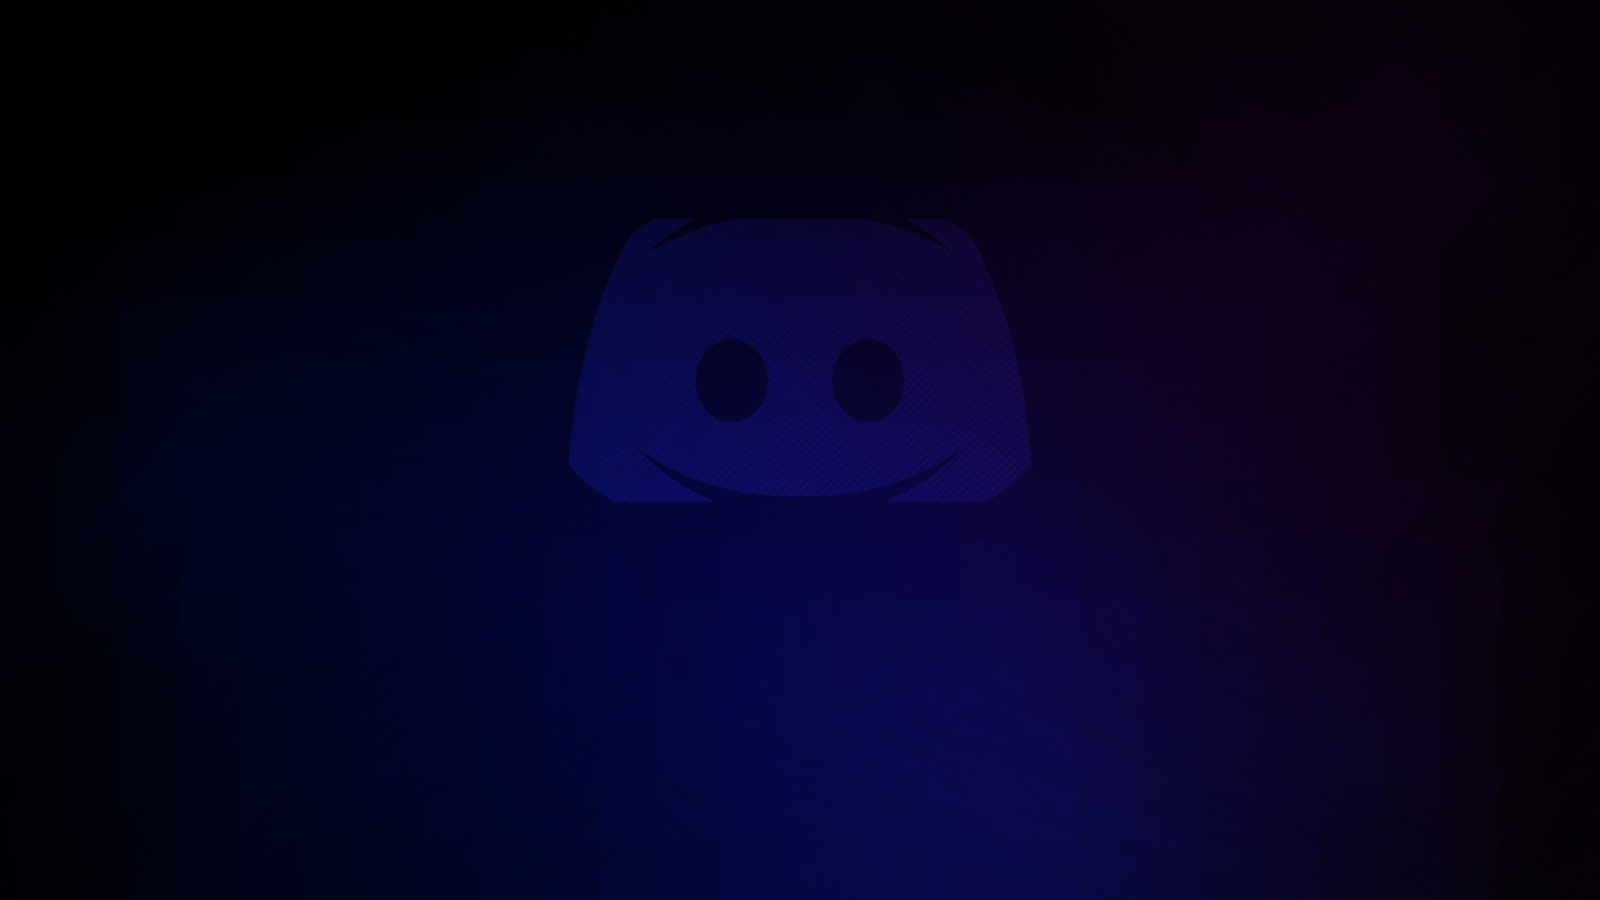
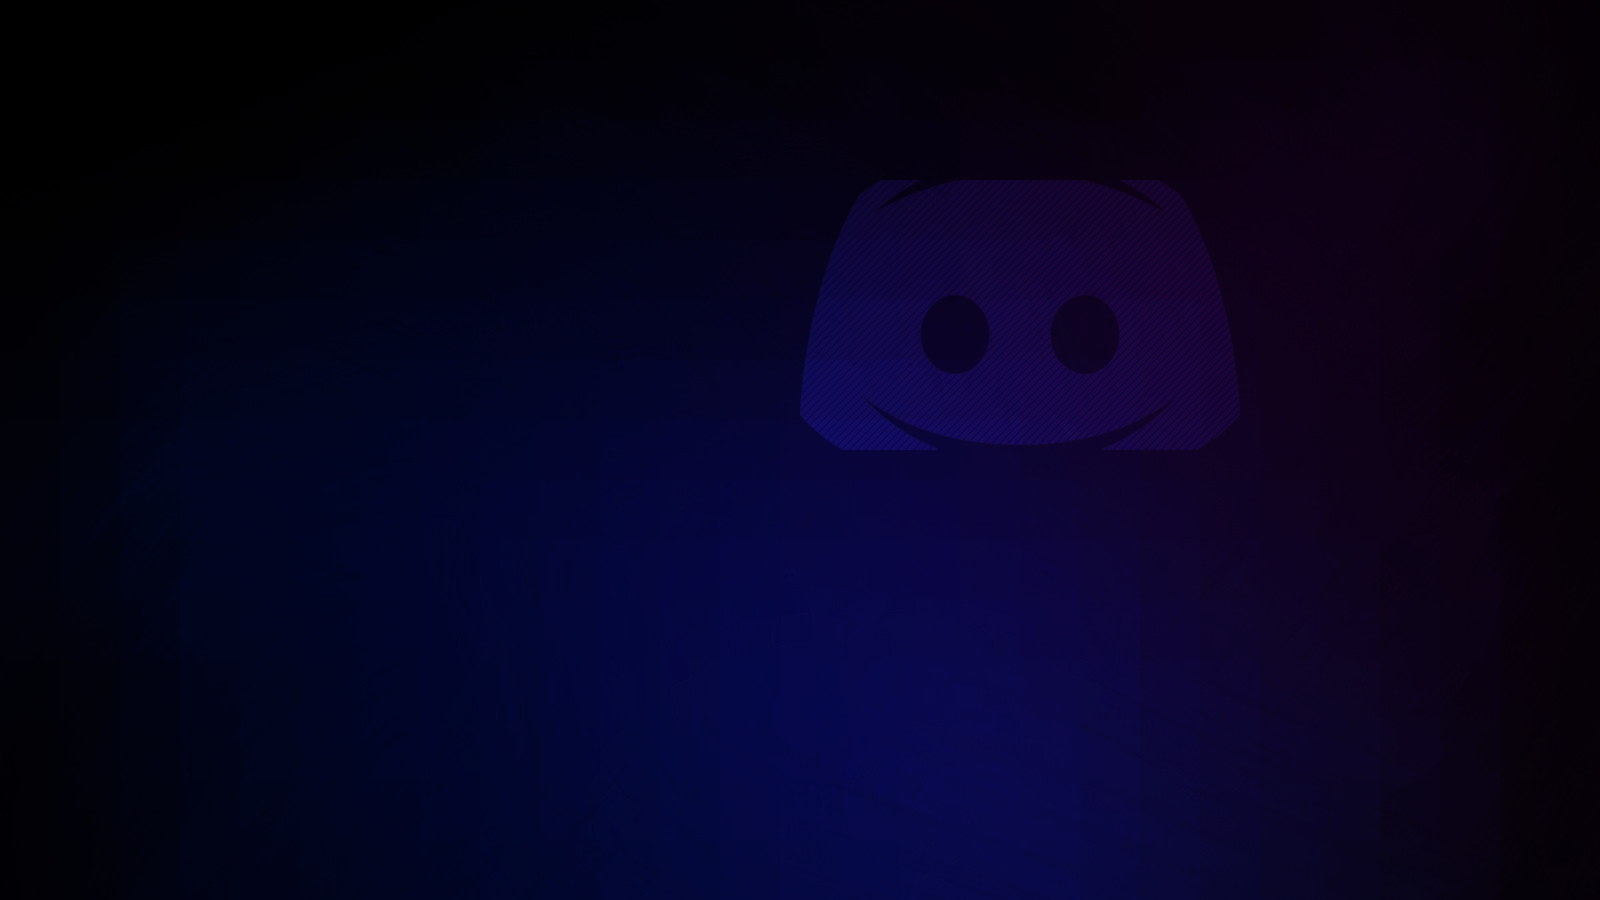
changed call to action container/button
moved discord logo to the right

Changed region(s): [[0.3438, 0.1867, 0.75, 0.56]]

diff --git a/Spacey/index.html b/Spacey/index.html
@@ -189,7 +189,7 @@
     <section id="call-to-action">
       <div class="container wow fadeIn">
         <div class="row">
-          <div class="col-lg-9 text-center text-lg-left">
+          <div class="col-lg-4 text-center text-lg-left">
             <h3 class="cta-title">Call To Action</h3>
             <p class="cta-text">In search of more Dota 2 stars. Join us!</p>
           </div>
